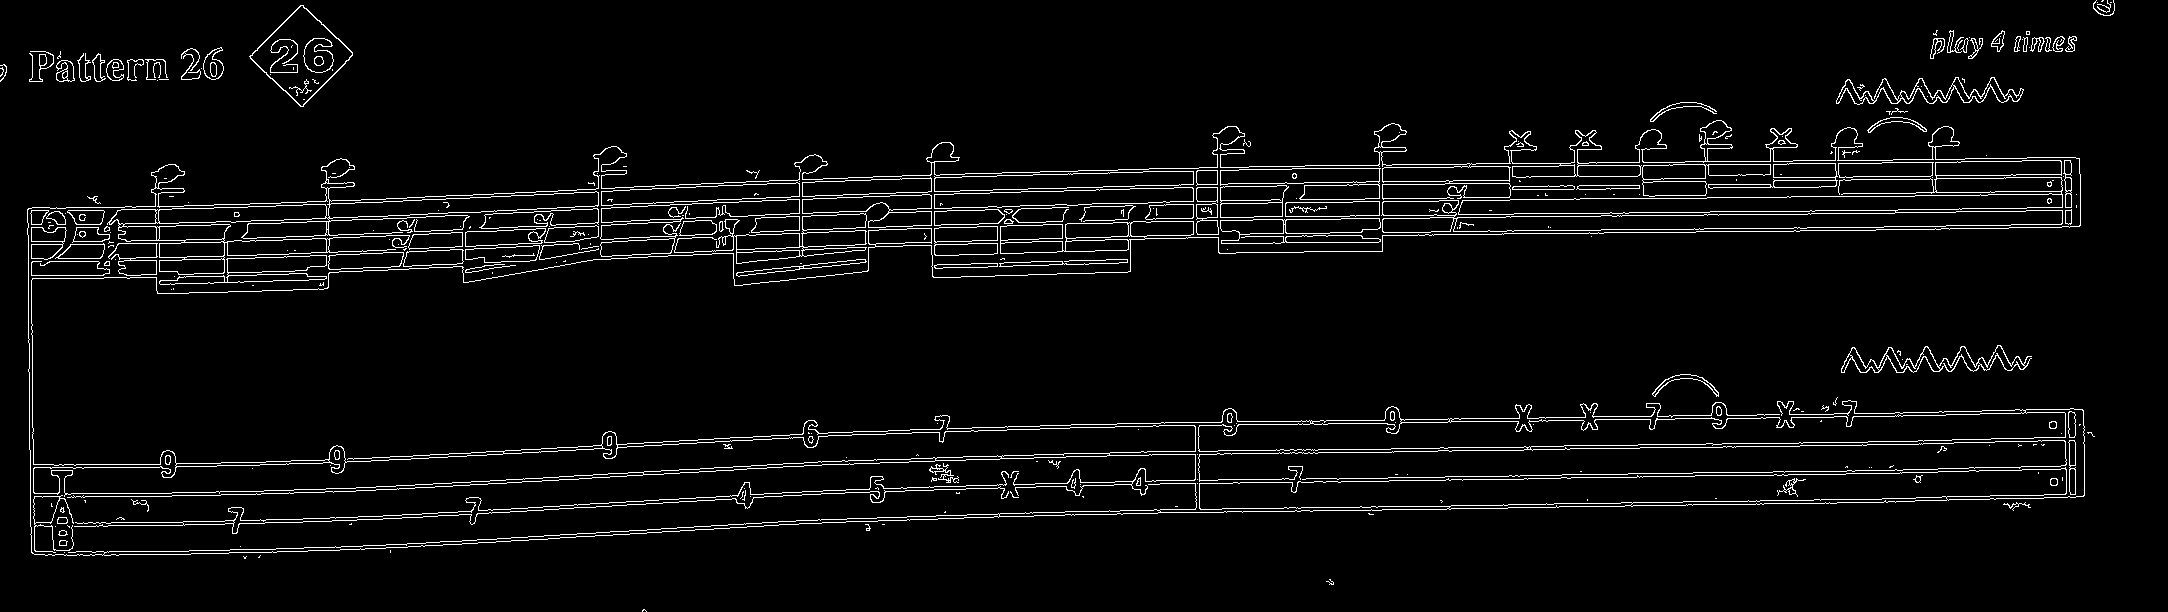
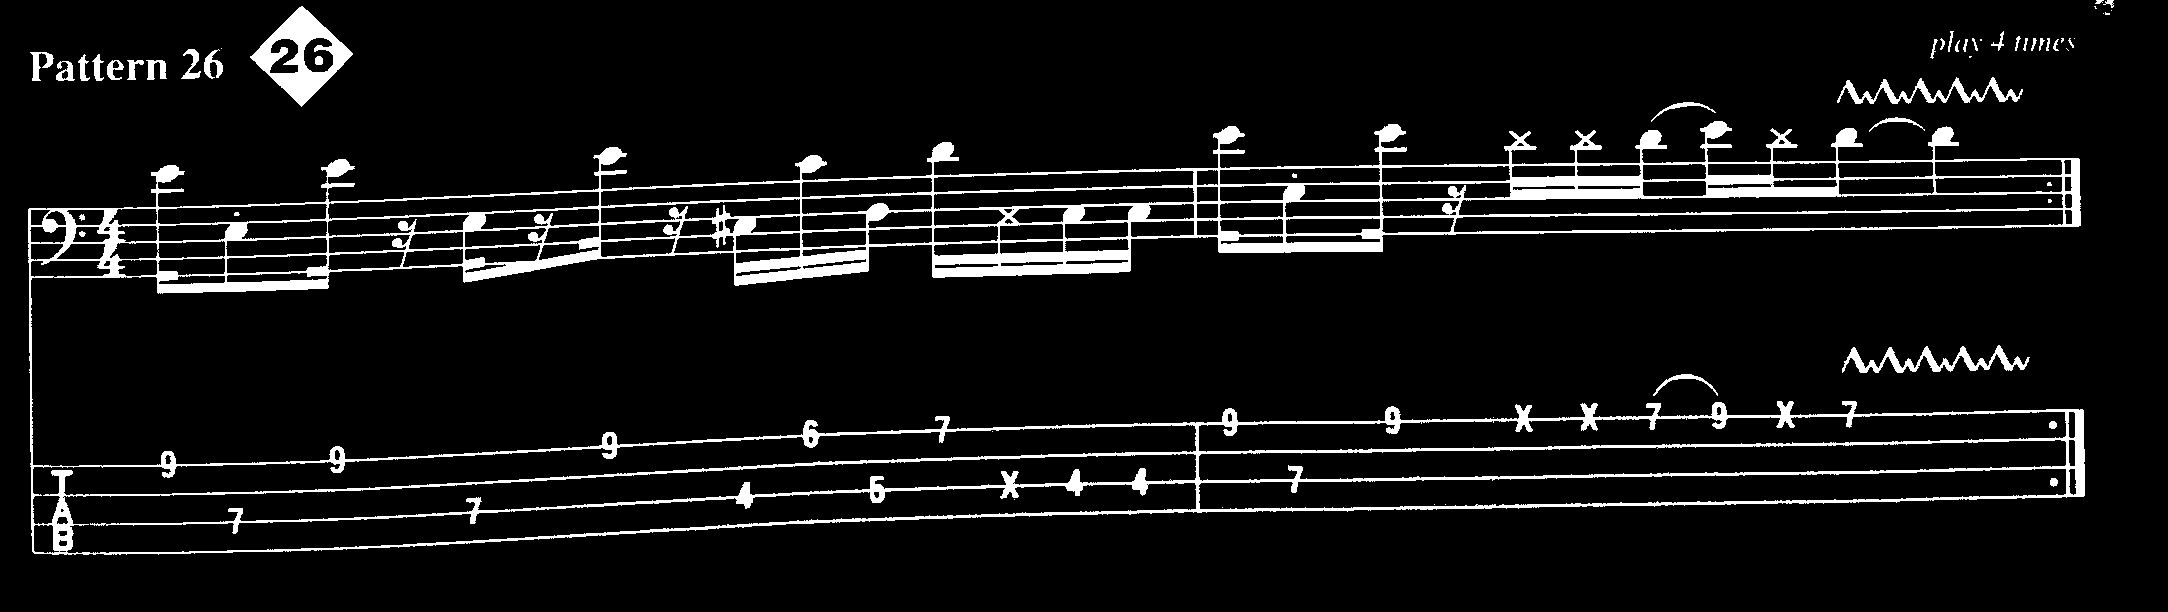
Extraction de blob detection et rajout de fonctionnalités GUI. Faudrait travailler les interfaces, c'est un peu galère là ^^

diff --git a/blob_detection.py b/blob_detection.py
@@ -1,0 +1,106 @@
+import cv2
+import numpy as np
+
+
+# url: http://docs.opencv.org/3.0-beta/doc/py_tutorials/py_gui/py_trackbar/py_trackbar.html
+def nothing(x):
+    pass
+
+#
+# filename = "Page_09_HD.jpg"
+# filename = "Page_09.jpg"
+#
+# filename = "Page_09_Pattern_23.png"
+filename = "Page_09_Pattern_26.png"
+
+# url: https://github.com/spmallick/learnopencv/blob/master/BlobDetector/blob.py
+# Read image
+# im = cv2.imread("BlobTest.jpg", cv2.IMREAD_GRAYSCALE)
+# im = cv2.imread("Page_09_Pattern_23.png", cv2.IMREAD_GRAYSCALE)
+im = cv2.imread(filename, cv2.IMREAD_GRAYSCALE)
+
+# Setup SimpleBlobDetector parameters.
+params = cv2.SimpleBlobDetector_Params()
+
+# Change thresholds
+params.minThreshold = 10
+params.maxThreshold = 200
+
+# Filter by Area.
+params.filterByArea = True
+params.minArea = 60
+params.maxArea = 140
+
+# Filter by Circularity
+params.filterByCircularity = True
+params.minCircularity = 0.075
+
+# Filter by Convexity
+params.filterByConvexity = True
+params.minConvexity = 0.87
+
+# Filter by Inertia
+params.filterByInertia = True
+# params.minInertiaRatio = 0.01
+params.minInertiaRatio = 0.33
+
+
+cv2.namedWindow('image', cv2.WINDOW_NORMAL)
+#
+cv2.createTrackbar('minThreshold', 'image', int(params.minThreshold), 255, nothing)
+cv2.createTrackbar('maxThreshold', 'image', int(params.maxThreshold), 255, nothing)
+#
+cv2.createTrackbar('minArea', 'image', int(params.minArea), 1000, nothing)
+cv2.createTrackbar('maxArea', 'image', int(params.maxArea), 1000, nothing)
+cv2.createTrackbar('minCircularity', 'image', int(params.minCircularity)*1000, 1000, nothing)
+#
+switch_filterByArea = 'filterByArea\n0 : OFF \n1 : ON'
+switch_filterByCircularity = 'filterByCircularity\n0 : OFF \n1 : ON'
+switch_filterByConvexity = 'filterByConvexity\n0 : OFF \n1 : ON'
+switch_filterByInertia = 'filterByInertia\n0 : OFF \n1 : ON'
+cv2.createTrackbar(switch_filterByArea, 'image', params.filterByArea, 1, nothing)
+cv2.createTrackbar(switch_filterByCircularity, 'image', params.filterByCircularity, 1, nothing)
+cv2.createTrackbar(switch_filterByConvexity, 'image', params.filterByConvexity, 1, nothing)
+cv2.createTrackbar(switch_filterByInertia, 'image', params.filterByInertia, 1, nothing)
+
+# cv2.imwrite("extract_circles_notes.png", im_with_keypoints)
+
+while(1):
+    k = cv2.waitKey(1) & 0xFF
+    if k == 27:
+        break
+
+    # get current positions of four trackbars
+    canny_lowThreshold = cv2.getTrackbarPos('canny_lowThreshold', 'image')
+    # canny_param2 = cv2.getTrackbarPos('canny_param2', 'image')
+    # canny_apertureSize = cv2.getTrackbarPos('canny_apertureSize', 'image')
+
+    params.filterByArea = bool(cv2.getTrackbarPos(switch_filterByArea, 'image'))
+    params.filterByCircularity = bool(cv2.getTrackbarPos(switch_filterByCircularity, 'image'))
+    params.filterByConvexity = bool(cv2.getTrackbarPos(switch_filterByConvexity, 'image'))
+    params.filterByInertia = bool(cv2.getTrackbarPos(switch_filterByInertia, 'image'))
+
+    params.minArea = cv2.getTrackbarPos('minArea', 'image')
+    params.maxArea = cv2.getTrackbarPos('maxArea', 'image')
+    params.minCircularity = cv2.getTrackbarPos('minCircularity', 'image')/1000.0
+
+    # Create a detector with the parameters
+    ver = (cv2.__version__).split('.')
+
+    if int(ver[0]) < 3:
+        detector = cv2.SimpleBlobDetector(params)
+    else:
+        detector = cv2.SimpleBlobDetector_create(params)
+
+    # Detect blobs.
+    keypoints = detector.detect(im)
+
+    # Draw detected blobs as red circles.
+    # cv2.DRAW_MATCHES_FLAGS_DRAW_RICH_KEYPOINTS ensures
+    # the size of the circle corresponds to the size of blob
+
+    im_with_keypoints = cv2.drawKeypoints(
+        im, keypoints, np.array([]), (0, 0, 255), cv2.DRAW_MATCHES_FLAGS_DRAW_RICH_KEYPOINTS)
+
+    # Show blobs
+    cv2.imshow("image", im_with_keypoints)

diff --git a/dilatation.py b/dilatation.py
@@ -12,12 +12,16 @@ src = cv2.imread(filename)
 
 gray = cv2.cvtColor(src, cv2.COLOR_BGR2GRAY)
 
-edges = cv2.Canny(gray, 150, 700, apertureSize=5)
-cv2.imshow("edges", edges)
-cv2.waitKey(0)
+# edges = cv2.Canny(gray, 150, 700, apertureSize=5)
+# cv2.imshow("edges", edges)
+# cv2.waitKey(0)
+# bw = cv2.adaptiveThreshold(edges, 255, cv2.ADAPTIVE_THRESH_MEAN_C, cv2.THRESH_BINARY, 15, -2)
 
 # bw = cv2.adaptiveThreshold(~gray, 255, cv2.ADAPTIVE_THRESH_MEAN_C, cv2.THRESH_BINARY, 15, -2)
-bw = cv2.adaptiveThreshold(edges, 255, cv2.ADAPTIVE_THRESH_MEAN_C, cv2.THRESH_BINARY, 15, -2)
+
+minThreshold = 0  #
+maxThreshold = 255
+ret, bw = cv2.threshold(~gray, minThreshold, maxThreshold, cv2.THRESH_BINARY | cv2.THRESH_OTSU)
 
 cv2.imshow("bw", bw)
 cv2.waitKey(0)
@@ -37,7 +41,7 @@ cv2.imwrite("bw_after_dilate.png", bw)
 # url: http://stackoverflow.com/questions/16533078/clone-an-image-in-cv2-python
 horizontal = bw.copy()
 # Specify size on horizontal axis
-scale = 15  # play with this variable in order to increase/decrease the amount of lines to be detected
+scale = 20  # play with this variable in order to increase/decrease the amount of lines to be detected
 height, width = horizontal.shape[:2]
 horizontalsize = width / scale
 
@@ -83,7 +87,7 @@ cv2.imwrite("extract_vertical.png", vertical)
 # contours, hierarchy = cv2.findContours(horizontal, cv2.RETR_TREE, cv2.CHAIN_APPROX_SIMPLE)
 # contours, hierarchy = cv2.findContours(horizontal, cv2.RETR_CCOMP, cv2.CHAIN_APPROX_SIMPLE)
 # im2, contours, hierarchy = cv2.findContours(horizontal, cv2.RETR_CCOMP, cv2.CHAIN_APPROX_SIMPLE)  # version 3.1.0
-tup_results = cv2.findContours(horizontal, cv2.RETR_CCOMP, cv2.CHAIN_APPROX_SIMPLE)  # 
+tup_results = cv2.findContours(horizontal, cv2.RETR_CCOMP, cv2.CHAIN_APPROX_SIMPLE)  #
 global contours, hierarchy
 if len(tup_results) == 3:
     im2, contours, hierarchy = tup_results
@@ -105,57 +109,3 @@ cv2.imshow("img_contours", img_contours)
 cv2.waitKey(0)
 cv2.imwrite("extract_contours.png", img_contours)
 
-
-# url: https://github.com/spmallick/learnopencv/blob/master/BlobDetector/blob.py
-# Read image
-# im = cv2.imread("BlobTest.jpg", cv2.IMREAD_GRAYSCALE)
-# im = cv2.imread("Page_09_Pattern_23.png", cv2.IMREAD_GRAYSCALE)
-im = cv2.imread(filename, cv2.IMREAD_GRAYSCALE)
-
-# Setup SimpleBlobDetector parameters.
-params = cv2.SimpleBlobDetector_Params()
-
-# Change thresholds
-params.minThreshold = 10
-params.maxThreshold = 200
-
-
-# Filter by Area.
-params.filterByArea = True
-params.minArea = 80
-
-# Filter by Circularity
-params.filterByCircularity = True
-params.minCircularity = 0.1
-
-# Filter by Convexity
-params.filterByConvexity = True
-params.minConvexity = 0.87
-
-# Filter by Inertia
-params.filterByInertia = True
-# params.minInertiaRatio = 0.01
-params.minInertiaRatio = 0.33
-
-# Create a detector with the parameters
-ver = (cv2.__version__).split('.')
-if int(ver[0]) < 3:
-    detector = cv2.SimpleBlobDetector(params)
-else:
-    detector = cv2.SimpleBlobDetector_create(params)
-
-
-# Detect blobs.
-keypoints = detector.detect(im)
-
-# Draw detected blobs as red circles.
-# cv2.DRAW_MATCHES_FLAGS_DRAW_RICH_KEYPOINTS ensures
-# the size of the circle corresponds to the size of blob
-
-im_with_keypoints = cv2.drawKeypoints(
-    im, keypoints, np.array([]), (0, 0, 255), cv2.DRAW_MATCHES_FLAGS_DRAW_RICH_KEYPOINTS)
-
-# Show blobs
-cv2.imshow("Keypoints", im_with_keypoints)
-cv2.waitKey(0)
-cv2.imwrite("extract_circles_notes.png", im_with_keypoints)

diff --git a/threshold_otsu.py b/threshold_otsu.py
@@ -23,6 +23,12 @@ minThreshold = 0  #
 maxThreshold = 255
 ret, thresh = cv2.threshold(imgray, minThreshold, maxThreshold, cv2.THRESH_BINARY | cv2.THRESH_OTSU)
 print 'ret: ', ret
+
+cv2.namedWindow('Thresholding Otsu', cv2.WINDOW_OPENGL)
 cv2.imshow('thresh', thresh)
 cv2.imwrite("thresh_otsu_{0}.jpg".format(filename[:-4]), thresh)
-cv2.waitKey(0)
+
+while(1):
+    k = cv2.waitKey(1) & 0xFF
+    if k == 27:
+        break

diff --git a/canny_gui.py b/canny_gui.py
@@ -43,6 +43,7 @@ height, width = im.shape[:2]
 # url: http://docs.opencv.org/2.4/modules/highgui/doc/user_interface.html
 # Create a black image, a window
 cv2.namedWindow('image', cv2.WINDOW_NORMAL)
+# cv2.resizeWindow('image', 320, 200)
 
 # create trackbars for color change
 cv2.createTrackbar('canny_lowThreshold', 'image', canny_lowThreshold, max_lowThreshold, nothing)
